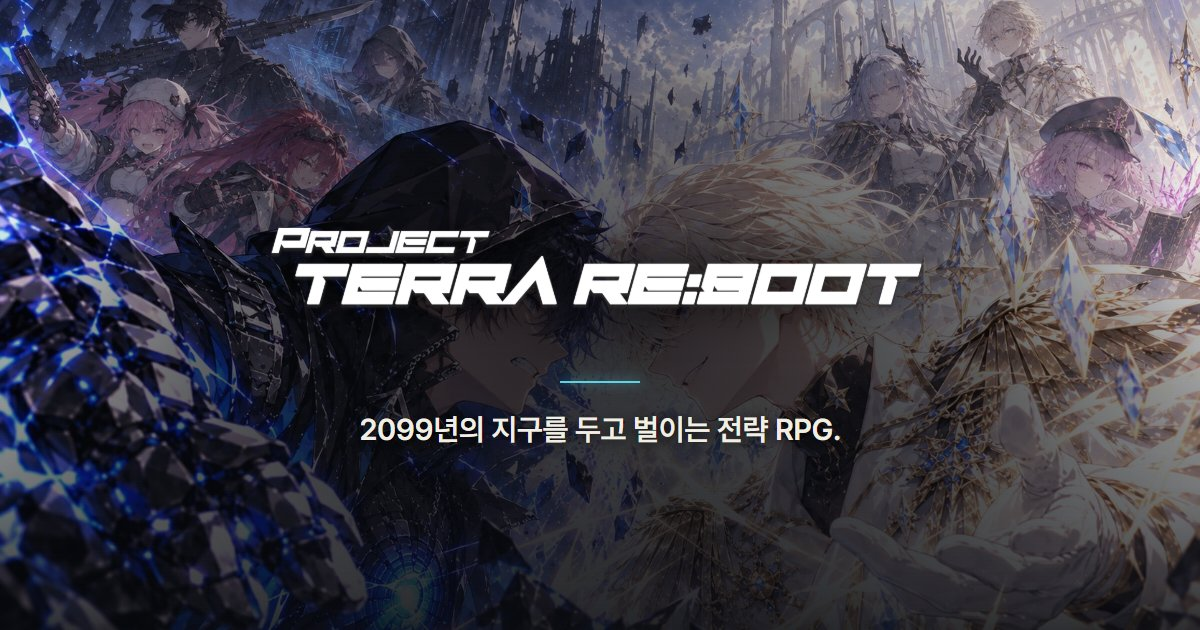
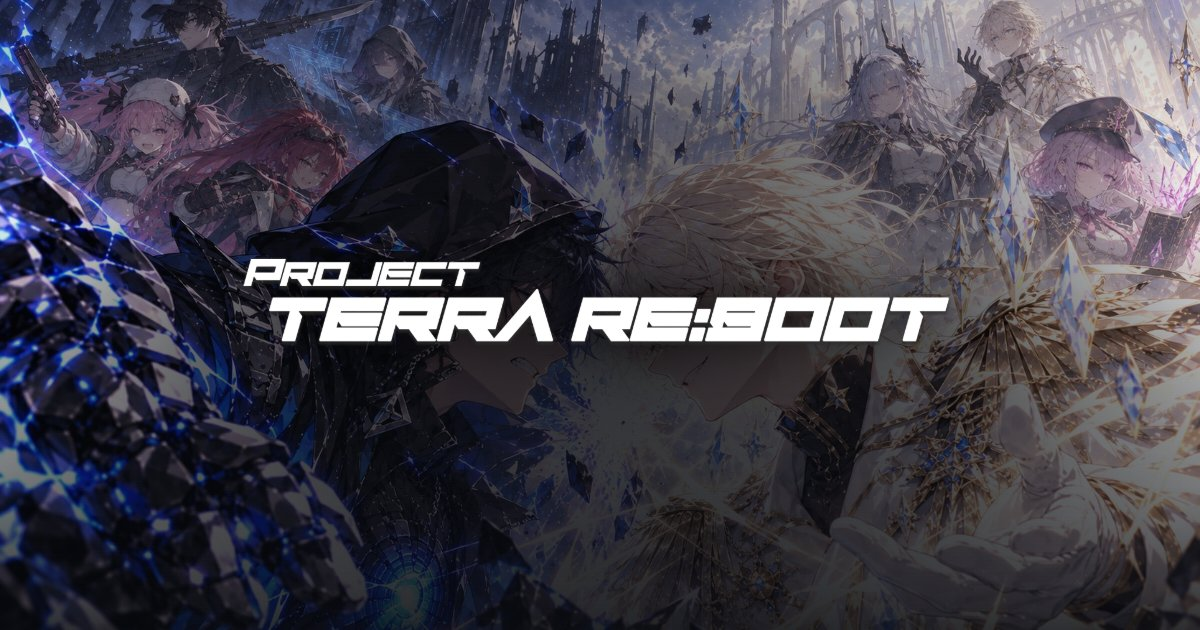
feat: 플레이에 역할군(FEATURE 04) 항목 재추가, 메뉴 이동 시 모바일 하단 로스터·목차를 맨 왼쪽으로 초기화, 미리보기 썸네일 로고만 남김, 미리보기 제목을 사이트 제목과 통일

Changed region(s): [[0.185, 0.3619, 0.8017, 0.5429], [0.2775, 0.6635, 0.7092, 0.7238], [0.4625, 0.6032, 0.5242, 0.6333]]

diff --git a/index.html b/index.html
@@ -8,19 +8,19 @@
 
 <!-- 링크 미리보기 (카카오톡·디스코드·X 등). 이미지는 전체 주소여야 함. 바꾼 뒤 카톡은 '카카오 공유 디버거'에서 캐시 초기화 -->
 <meta property="og:type" content="website">
-<meta property="og:site_name" content="Project:Terra Reboot">
+<meta property="og:site_name" content="Terra reboot: 테라 리부트">
 <meta property="og:url" content="https://nodadada.github.io/Terrareboot/">
-<meta property="og:title" content="Project:Terra Reboot">
+<meta property="og:title" content="Terra reboot: 테라 리부트">
 <meta property="og:description" content="2099년의 지구를 두고 벌이는 전략 RPG.">
-<meta property="og:image" content="https://nodadada.github.io/Terrareboot/og-image.jpg">
+<meta property="og:image" content="https://nodadada.github.io/Terrareboot/og-image.jpg?v=2">
 <meta property="og:image:width" content="1200">
 <meta property="og:image:height" content="630">
-<meta property="og:image:alt" content="Project:Terra Reboot 키 비주얼">
+<meta property="og:image:alt" content="Project:Terra Reboot 로고와 키 비주얼">
 <meta property="og:locale" content="ko_KR">
 <meta name="twitter:card" content="summary_large_image">
-<meta name="twitter:title" content="Project:Terra Reboot">
+<meta name="twitter:title" content="Terra reboot: 테라 리부트">
 <meta name="twitter:description" content="2099년의 지구를 두고 벌이는 전략 RPG.">
-<meta name="twitter:image" content="https://nodadada.github.io/Terrareboot/og-image.jpg">
+<meta name="twitter:image" content="https://nodadada.github.io/Terrareboot/og-image.jpg?v=2">
 
 <link rel="preconnect" href="https://fonts.googleapis.com">
 <link rel="preconnect" href="https://fonts.gstatic.com" crossorigin>
@@ -1506,9 +1506,9 @@
 </div>
 
 <script src="https://cdn.jsdelivr.net/npm/swiper@11.2.10/swiper-bundle.min.js"></script>
-<script src="Character/characters.js?v=20261026"></script>
-<script src="World/world.js?v=20261026"></script>
-<script src="Play/play.js?v=20261026"></script>
+<script src="Character/characters.js?v=20261027"></script>
+<script src="World/world.js?v=20261027"></script>
+<script src="Play/play.js?v=20261027"></script>
 <script>
   // 가로로 넘치는 줄(모바일의 캐릭터 로스터·하단 목차)에서 선택된 항목이 가운데 오도록 스크롤
   function centerInBar(bar, active){
@@ -2186,6 +2186,12 @@
   }
 
   let resetTimer;
+  // 메뉴 안 항목을 첫 번째로 되돌리고, 모바일 하단 줄(로스터·목차)도 맨 왼쪽부터 보이게 함
+  const BARS = { character: 'char-roster', world: 'world-index', play: 'play-index' };
+  function resetInner(key, s){
+    if (s.activeIndex !== 0) s.slideTo(0, 0);
+    document.getElementById(BARS[key]).scrollTo({ left: 0, behavior: 'instant' });
+  }
   const swiper = new Swiper('.stage > .swiper', {
     direction: 'vertical',
     effect: 'fade',
@@ -2215,7 +2221,7 @@
         Object.entries(inner).forEach(([key, s]) => {
           if (key === section) {
             // 들어올 때도 첫 항목인지 한 번 더 확인 (나갈 때 되돌리기가 빠졌더라도 항상 첫 항목부터)
-            if (s.activeIndex !== 0) s.slideTo(0, 0);
+            resetInner(key, s);
             s.keyboard.enable(); loadNear(s);
           }
           else s.keyboard.disable();
@@ -2227,7 +2233,7 @@
         resetTimer = setTimeout(() => {
           const now = document.body.dataset.section;
           Object.entries(inner).forEach(([key, s]) => {
-            if (key !== now && s.activeIndex !== 0) s.slideTo(0, 0);
+            if (key !== now) resetInner(key, s);
           });
         }, this.params.speed);
       },

diff --git a/Play/play.js b/Play/play.js
@@ -13,14 +13,20 @@
  * - demo  : 체험판 경로. Unity WebGL 빌드 폴더의 index.html 을 넣으면 '직접 해보기' 버튼이 생김. '' 이면 버튼 없음
  */
 
-// 포지션 설명 ('positions' 연출용, 지금은 목록에서 뺀 상태) — 캐릭터 목록(characters.js)의 role 과 이름이 같아야 해당 캐릭터 얼굴이 자동으로 붙음
+// 역할군 설명 ('positions' 연출용, 오른쪽 카드에 표시) — 캐릭터 목록(characters.js)의 role 과 이름이 같아야 해당 캐릭터 얼굴이 자동으로 붙음
 window.POSITIONS = [
-  { name: '스트라이커', nameEn: 'Striker',
-    desc: '공명했을 때 위력이 크게 뛰어오르는 공격수. 방어를 꿰뚫고, 피해를 주변으로 퍼뜨리고, 마무리 일격으로 다음 행동을 이어 간다.' },
-  { name: '택티션', nameEn: 'Tactician',
-    desc: '판을 짜는 운영가. 행동력을 되돌려 턴을 늘리고, 필요 없는 칩을 순환시키고, 자신의 태그를 옆 칩에 덮어씌워 공명을 만들어 낸다.' },
-  { name: '가디언', nameEn: 'Guardian',
-    desc: '아군을 지키는 방벽. 적의 공격을 자신에게 끌어오고, 공명하면 아군 전체에 보호막을 펼치며, 치명적인 상태 이상을 걷어 낸다.' },
+  {
+    name: '스트라이커', nameEn: 'Striker',
+    desc: '공명했을 때 위력이 크게 뛰어오르는 공격수. 방어를 꿰뚫고, 피해를 주변으로 퍼뜨리고, 마무리 일격으로 다음 행동을 이어 간다.'
+  },
+  {
+    name: '택티션', nameEn: 'Tactician',
+    desc: '판을 짜는 운영가. 행동력을 되돌려 턴을 늘리고, 필요 없는 칩을 순환시키고, 자신의 태그를 옆 칩에 덮어씌워 공명을 만들어 낸다.'
+  },
+  {
+    name: '가디언', nameEn: 'Guardian',
+    desc: '아군을 지키는 방벽. 적의 공격을 자신에게 끌어오고, 공명하면 아군 전체에 보호막을 펼치며, 치명적인 상태 이상을 걷어 낸다.'
+  },
 ];
 
 // 하단 목차 맨 앞에 붙는 묶음 이름 — 게임 장르를 함께 보여 줌
@@ -64,6 +70,18 @@ window.PLAY = [
     desc: [
       '안전지대 네오 에덴에서 이레이안의 본거지 테라 노바까지, 더스트에 잠식된 땅을 거점 하나씩 되찾는다.',
       '붉게 물든 작전 지도가 푸르게 바뀔 때마다, 감춰져 있던 이야기도 한 걸음씩 드러난다.',
+    ],
+  },
+  {
+    label: '전투 역할',
+    kicker: 'FEATURE 04',
+    title: '역할군', titleEn: 'Position',
+    headline: '조합을 맞춰 팀을 운용하자',
+    accent: '#A99BFF',
+    visual: 'positions',
+    desc: [
+      '전장에서 맡는 역할에 따라 스트라이커, 택티션, 가디언으로 역할이 나뉜다.',
+      '팀 편성이 손에 쥘 메모리 칩의 성격을 정한다. 서로의 빈틈을 메우는 조합을 찾아라.',
     ],
   },
 ];
